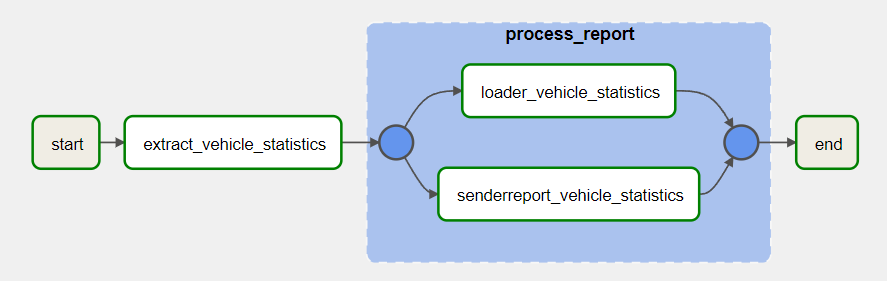
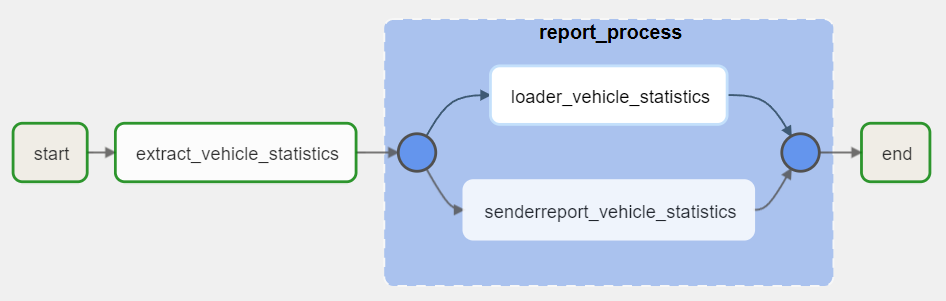
feat: etl flow

Changed region(s): [[0.0, 0.0569, 1.0, 0.968], [0.4566, 0.1993, 0.8219, 0.427]]

diff --git a/source/app/dags/statistic_per_vehicle.py b/source/app/dags/statistic_per_vehicle.py
@@ -53,7 +53,7 @@ with DAG(dag_id='statistic_per_vehicle', default_args=ARGS, catchup=False) as da
         mounts=VOLUME,
     )
 
-    with TaskGroup(group_id='process_report') as process_report:
+    with TaskGroup(group_id='report_process') as process_report:
         loader = DockerOperator(
             task_id='loader_vehicle_statistics',
             image='mbrugnar/loader_vehicle_statistics:latest',
